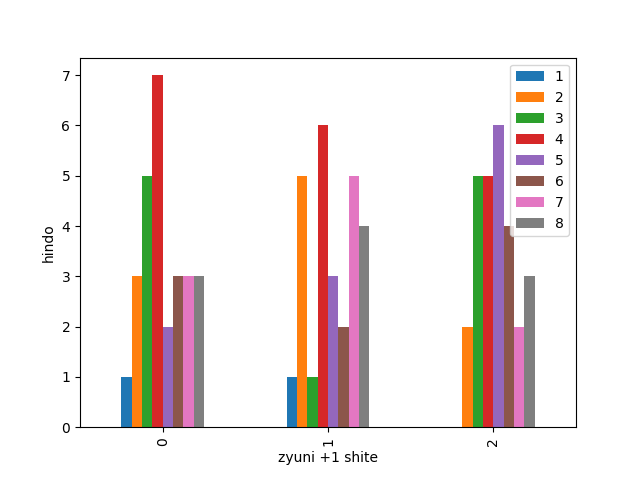
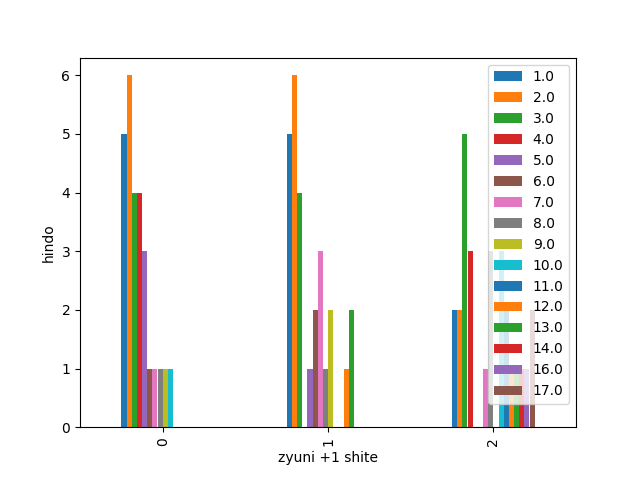
update

diff --git a/arrive_analytics.py b/arrive_analytics.py
@@ -59,7 +59,17 @@ def get_baba(raceId):
     baba_distance = raceData.span.text.strip()
     # 芝・ダート・障害 取得
     baba = baba_distance[0]
-    print(baba)
+    # 馬場状態取得
+    if soup.find(class_="Item04"):
+        babaCondition = soup.find(
+            class_="Item04").text[5:]
+    elif soup.find(class_="Item03"):
+        babaCondition = soup.find(
+            class_="Item03").text[5:]
+    else:
+        pass
+    print(babaCondition)
+    return babaCondition
 
 def gen_graph(data):
     # 辞書をpandasのデータフレームに変換する
@@ -97,18 +107,25 @@ def gen_graph(data):
 
 def analytics(races_data):
     wakuban_dict = {}
-    for i in range(3):
-        wakuban_dict[i] = {}
-        for k,v in races_data.items():
-                goal_arrival = v.loc[i,"人 気"]
-                if goal_arrival not in wakuban_dict[i]:
-                    wakuban_dict[i][goal_arrival] = 0
-                wakuban_dict[i][goal_arrival] += 1
-        sorted_waku = dict(sorted(wakuban_dict[i].items(),key=lambda x: x[1], reverse=True))
-        wakuban_dict[i] = copy.deepcopy(sorted_waku)
-        
-    print(wakuban_dict)
-    gen_graph(wakuban_dict)
+    fileName = ""
+    result = {}
+    for key in races_data.keys():
+        key = key.split("_")
+        raceId = key[0]
+        baba = get_baba(raceId)
+        result[baba] = {}
+        for i in range(3):
+            wakuban_dict[baba][i] = {}
+            for k,v in races_data.items():
+                    goal_arrival = v.loc[i,"人 気"]
+                    if goal_arrival not in wakuban_dict[baba][i]:
+                        wakuban_dict[baba][i][goal_arrival] = 0
+                    wakuban_dict[baba][i][goal_arrival] += 1
+            sorted_waku = dict(sorted(wakuban_dict[baba][i].items(),key=lambda x: x[1], reverse=True))
+            wakuban_dict[baba][i] = copy.deepcopy(sorted_waku)
+            
+        print(wakuban_dict)
+        gen_graph(wakuban_dict)
 
 def main():
     races_data = read_Data()

diff --git a/debug_collection.py b/debug_collection.py
@@ -57,8 +57,19 @@ def get_baba(raceId):
     # 芝・ダート・障害/距離取得
     baba_distance = raceData.span.text.strip()
     # 芝・ダート・障害 取得
-    baba = baba_distance[0]
-    print(baba)
+    baba = baba_distance
+    
+    # 馬場状態取得
+    if soup.find(class_="Item04"):
+        babaCondition = soup.find(
+            class_="Item04").text[5:]
+    elif soup.find(class_="Item03"):
+        babaCondition = soup.find(
+            class_="Item03").text[5:]
+    else:
+        pass
+    print(babaCondition)
+    return babaCondition
 
 def get_race_name(race_url):
     try:

diff --git a/data_analytics.py b/data_analytics.py
@@ -59,7 +59,17 @@ def get_baba(raceId):
     baba_distance = raceData.span.text.strip()
     # 芝・ダート・障害 取得
     baba = baba_distance[0]
-    print(baba)
+    # 馬場状態取得
+    if soup.find(class_="Item04"):
+        babaCondition = soup.find(
+            class_="Item04").text[5:]
+    elif soup.find(class_="Item03"):
+        babaCondition = soup.find(
+            class_="Item03").text[5:]
+    else:
+        pass
+    print(babaCondition)
+    return babaCondition
 
 def gen_graph(data):
     # 辞書をpandasのデータフレームに変換する

diff --git a/data_collection.py b/data_collection.py
@@ -119,7 +119,17 @@ def get_baba(raceId):
     baba_distance = raceData.span.text.strip()
     # 芝・ダート・障害 取得
     baba = baba_distance[0]
-    print(baba)
+    # 馬場状態取得
+    if soup.find(class_="Item04"):
+        babaCondition = soup.find(
+            class_="Item04").text[5:]
+    elif soup.find(class_="Item03"):
+        babaCondition = soup.find(
+            class_="Item03").text[5:]
+    else:
+        pass
+    print(babaCondition)
+    return babaCondition
     
     
 def gen_race_id():
